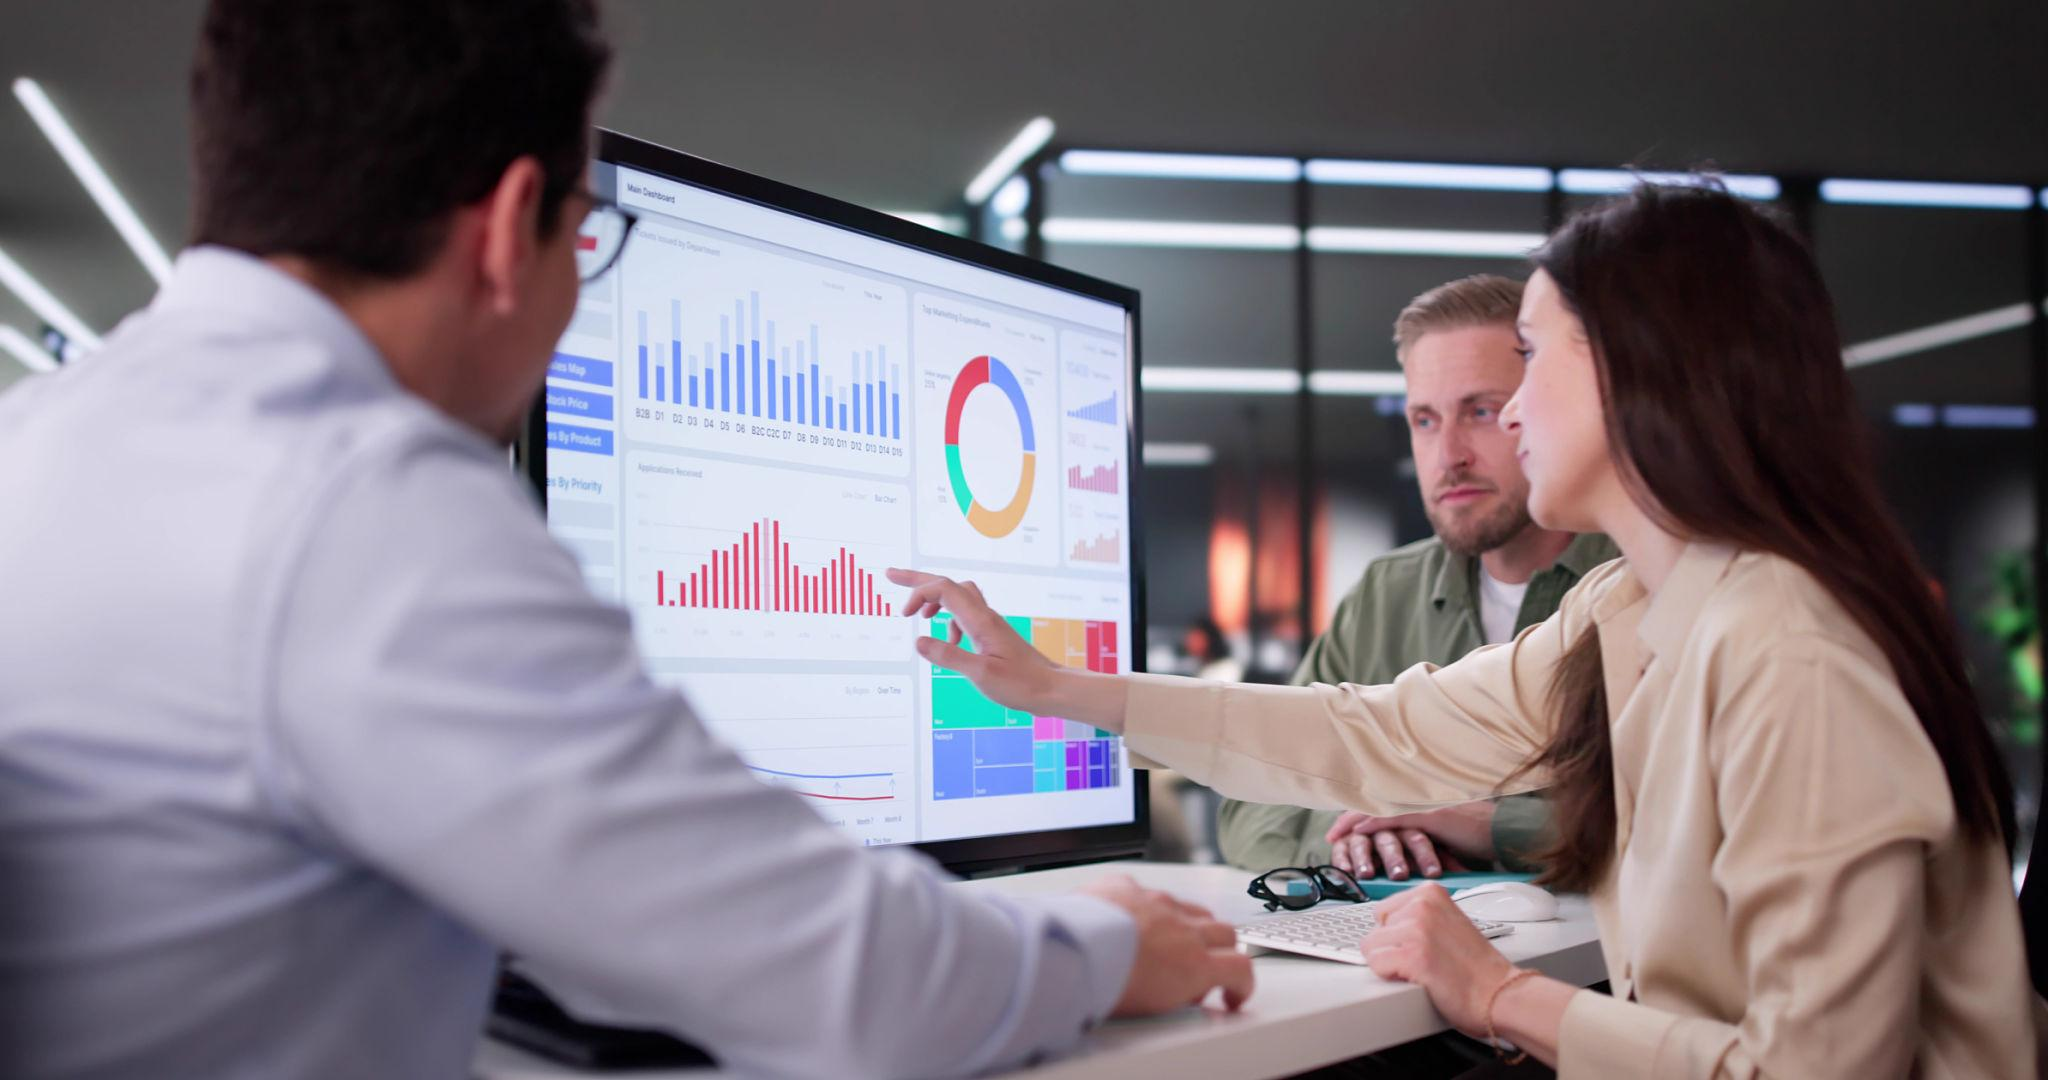
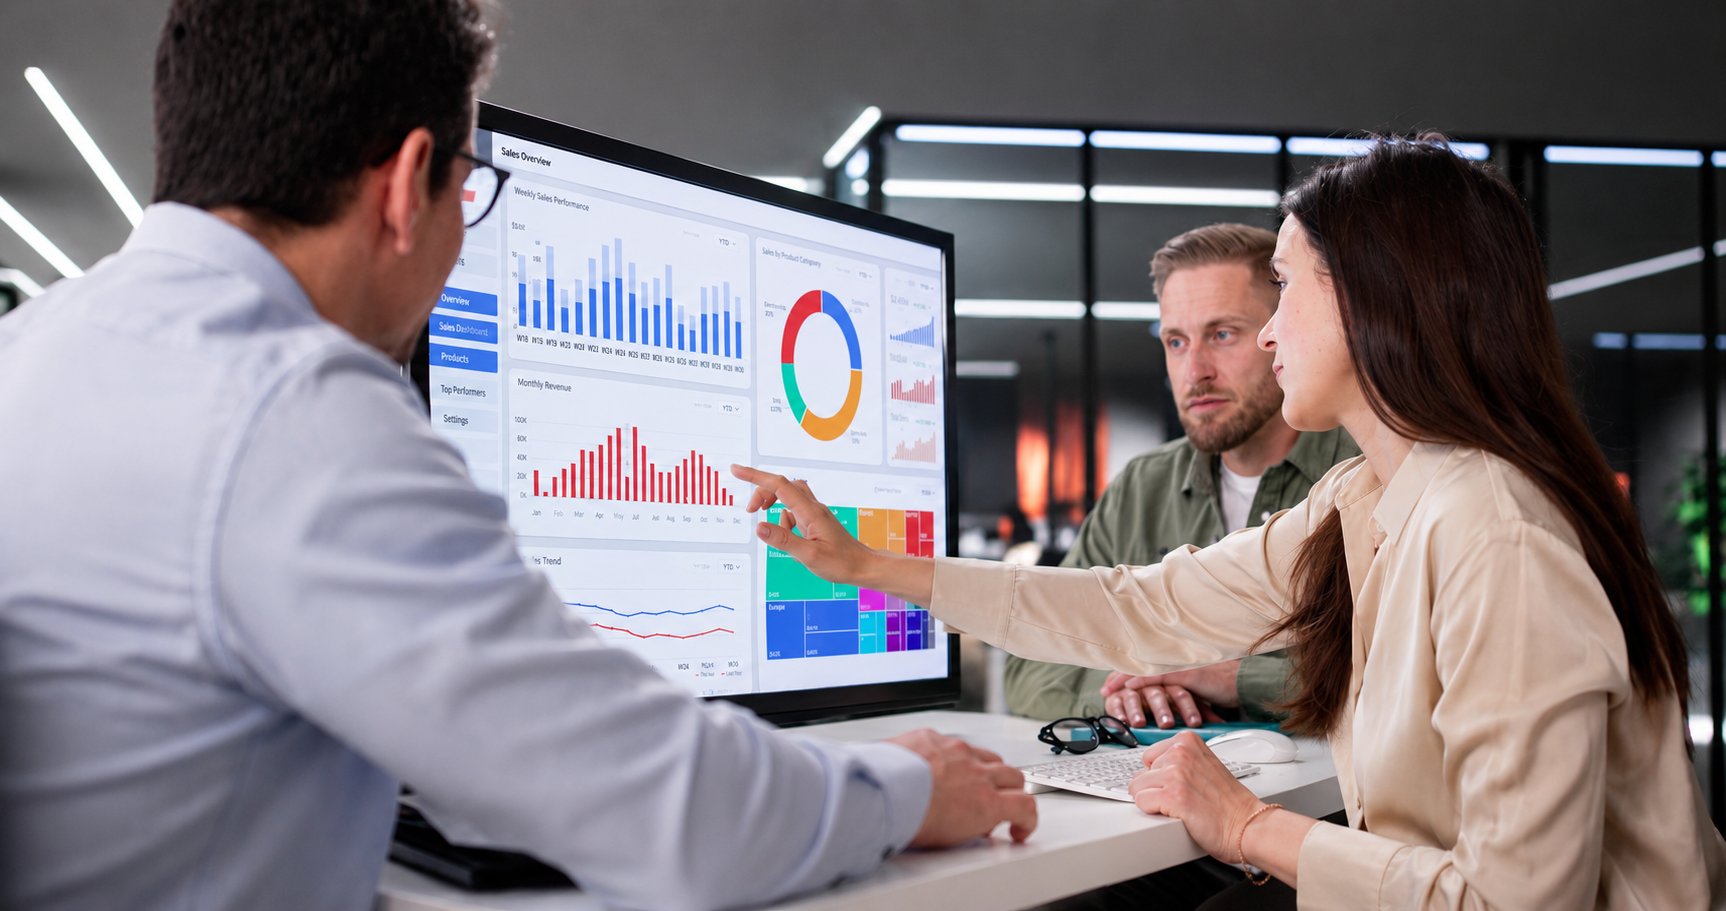
improve hero overlay and rebalance homepage card grids
fix hero left-side washout, enforce 3-2-1 responsive layout for Services/Products cards, and refine footer logo prominence, improved the the heroV2 bg resolution

diff --git a/src/components/Footer.tsx b/src/components/Footer.tsx
@@ -28,12 +28,13 @@ const useStyles = makeStyles({
   },
   brand: { display: "flex", alignItems: "center", gap: "10px", marginBottom: "16px" },
   logoMark: {
-    width: "80px",
+    width: "128px",
     height: "auto",
     display: "flex",
     alignItems: "center",
     justifyContent: "center",
     flexShrink: 0,
+    "@media (max-width: 960px)": { width: "112px" },
   },
   logoImage: { width: "100%", height: "100%", display: "block", objectFit: "contain" },
   logoName: { fontSize: "16px", fontWeight: 700, color: "#fff" },
@@ -185,14 +186,14 @@ export function Footer() {
         <div className={s.top}>
           <div>
             <div className={s.brand}>
-              <div className={s.logoMark}>
-                <img src="/logos/MAQ-Software-Logo.svg" alt="MAQ Software" className={s.logoImage} />
-              </div>
+              <Link to="/" aria-label="MAQ Software homepage" className={s.socialLink}>
+                <div className={s.logoMark}>
+                  <img src="/logos/MAQ-Software-Logo.svg" alt="MAQ Software" className={s.logoImage} />
+                </div>
+              </Link>
             </div>
             <p className={s.about}>
-              Microsoft Fabric Featured Partner. 26 years of enterprise
-              delivery. 1,800+ engineers turning data into decisions for the
-              Fortune 500.
+              MAQ Software helps enterprises transform data into decisions and AI into measurable business outcomes.
             </p>
             <p className={s.about} style={{ marginTop: 12 }}>
               2027 152nd Avenue NE, Redmond, WA 98052

diff --git a/src/components/HeroV2.tsx b/src/components/HeroV2.tsx
@@ -33,10 +33,10 @@ const useStyles = makeStyles({
   heroGradient: {
     position: "absolute",
     inset: 0,
-    background: "linear-gradient(to right, rgba(255,255,255,1) 30%, rgba(255,255,255,0.8) 50%, rgba(255,255,255,0) 100%)",
+    background: "linear-gradient(to right, rgba(248,250,252,0.88) 0%, rgba(248,250,252,0.74) 32%, rgba(248,250,252,0.45) 56%, rgba(248,250,252,0.12) 76%, rgba(248,250,252,0) 100%)",
     zIndex: 1,
     "@media (max-width: 768px)": {
-      background: "linear-gradient(to bottom, rgba(255,255,255,0.95) 40%, rgba(255,255,255,0.7) 100%)",
+      background: "linear-gradient(to bottom, rgba(248,250,252,0.9) 22%, rgba(248,250,252,0.58) 62%, rgba(248,250,252,0.18) 100%)",
     },
   },
   grid: {
@@ -132,7 +132,7 @@ export function Hero() {
       <img
         alt="Team collaborating in a modern office"
         className={s.bgImage}
-        src="/images/home.png"
+        src="public\images\Home2.png"
       />
       <div className={s.heroGradient}></div>
       {/* <svg

diff --git a/src/components/Products.tsx b/src/components/Products.tsx
@@ -34,8 +34,10 @@ const useStyles = makeStyles({
   },
   grid: {
     display: "grid",
-    gridTemplateColumns: "repeat(auto-fit, minmax(min(100%, 280px), 1fr))",
+    gridTemplateColumns: "repeat(3, minmax(0, 1fr))",
     gap: "16px",
+    "@media (max-width: 1120px)": { gridTemplateColumns: "repeat(2, minmax(0, 1fr))" },
+    "@media (max-width: 700px)": { gridTemplateColumns: "1fr" },
   },
   card: {
     backgroundColor: "#fff",

diff --git a/src/components/Services.tsx b/src/components/Services.tsx
@@ -43,8 +43,10 @@ const useStyles = makeStyles({
   },
   grid: {
     display: "grid",
-    gridTemplateColumns: "repeat(auto-fit, minmax(min(100%, 280px), 1fr))",
+    gridTemplateColumns: "repeat(3, minmax(0, 1fr))",
     gap: "16px",
+    "@media (max-width: 1120px)": { gridTemplateColumns: "repeat(2, minmax(0, 1fr))" },
+    "@media (max-width: 700px)": { gridTemplateColumns: "1fr" },
   },
   card: {
     backgroundColor: "#fff",